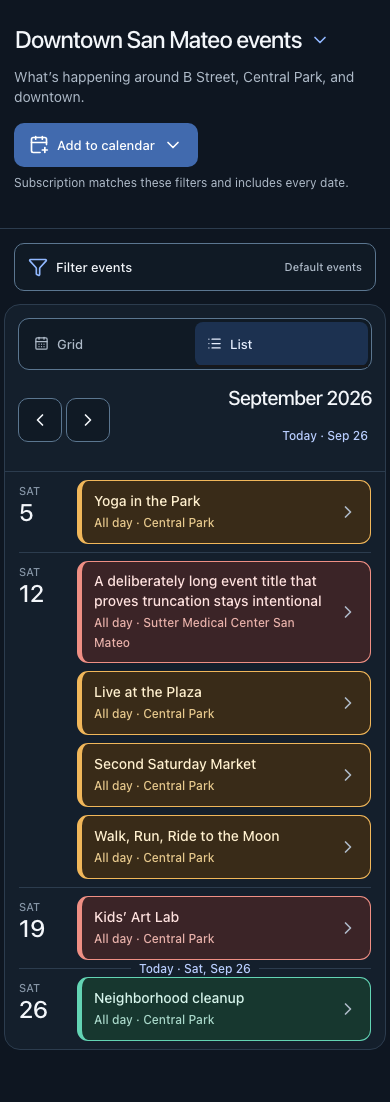
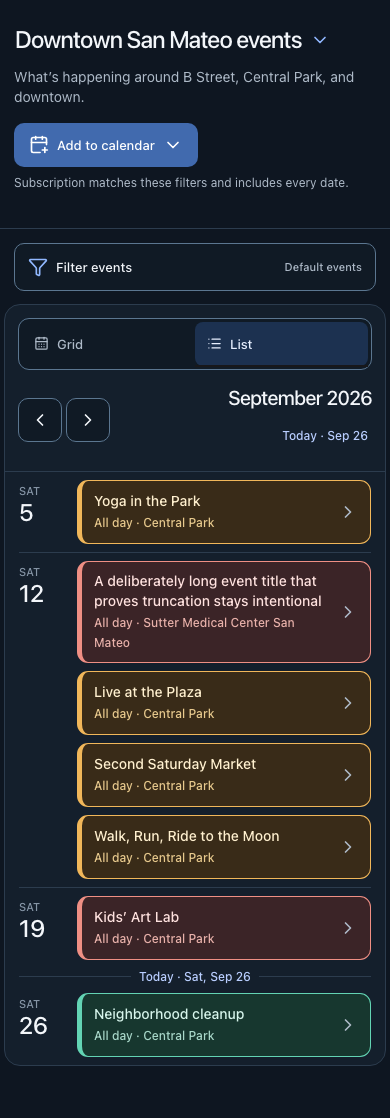
fix(frontend): give Today label readable clearance

diff --git a/frontend/e2e/today-divider.visual.spec.ts b/frontend/e2e/today-divider.visual.spec.ts
@@ -14,15 +14,10 @@ async function openFixture(page: Page, width: number, now: Date) {
 
 async function subscriptionUrl(page: Page) {
   await page.getByRole('button', { name: 'Add to calendar' }).click()
-  const menu = page.getByRole('menu')
-  const href = await page
+  return page
     .getByText('Apple Calendar')
     .locator('xpath=ancestor::a[1]')
     .getAttribute('href')
-  await menu.focus()
-  await menu.press('Escape')
-  await expect(menu).toBeHidden()
-  return href
 }
 
 async function contrastRatio(page: Page) {
@@ -88,7 +83,7 @@ async function expectBoundaryRhythm(page: Page, divider: Locator) {
     secondSameDay,
     boundaryBefore,
     boundaryAfter,
-    rule
+    label
   ] = await Promise.all([
     page.getByRole('tabpanel', { name: 'List' }).boundingBox(),
     ordinaryRule.boundingBox(),
@@ -97,18 +92,21 @@ async function expectBoundaryRhythm(page: Page, divider: Locator) {
     row12.getByRole('button').nth(1).boundingBox(),
     row19.getByRole('button').first().boundingBox(),
     row26.getByRole('button').first().boundingBox(),
-    divider.locator('[aria-hidden="true"]').first().boundingBox()
+    divider.locator('p').boundingBox()
   ])
   const normalLine = normalRule!.y + normalRule!.height / 2
-  const boundaryLine = rule!.y + rule!.height / 2
   const sameDayGap = secondSameDay!.y - (normalAfter!.y + normalAfter!.height)
   expect(sameDayGap).toBe(8)
+  const beforeText = label!.y - (boundaryBefore!.y + boundaryBefore!.height)
+  const afterText = boundaryAfter!.y - (label!.y + label!.height)
+  expect(beforeText).toBeGreaterThanOrEqual(7.5)
+  expect(afterText).toBeGreaterThanOrEqual(7.5)
   const gaps = [
     normalBefore!.y - list!.y,
     normalLine - (normalBefore!.y + normalBefore!.height),
     normalAfter!.y - normalLine,
-    boundaryLine - (boundaryBefore!.y + boundaryBefore!.height),
-    boundaryAfter!.y - boundaryLine,
+    beforeText,
+    afterText,
     list!.y + list!.height - (boundaryAfter!.y + boundaryAfter!.height)
   ]
   for (const gap of gaps)
@@ -181,12 +179,11 @@ for (const [instant, position] of [
     const ordinaryRule = page
       .locator('#calendar-list-day-2026-09-05')
       .locator('xpath=following-sibling::*[1]')
-    const [ordinaryRuleBox, dividerRuleBox] = await Promise.all([
+    const [ordinaryRuleBox, labelBox] = await Promise.all([
       ordinaryRule.boundingBox(),
-      divider.locator('[aria-hidden="true"]').first().boundingBox()
+      divider.locator('p').boundingBox()
     ])
     const ordinaryLine = ordinaryRuleBox!.y + ordinaryRuleBox!.height / 2
-    const dividerLine = dividerRuleBox!.y + dividerRuleBox!.height / 2
     expect(dividerBox!.y).toBeGreaterThanOrEqual(listBox!.y)
     expect(dividerBox!.y + dividerBox!.height).toBeLessThanOrEqual(
       listBox!.y + listBox!.height
@@ -208,8 +205,13 @@ for (const [instant, position] of [
           .boundingBox()
       ])
       expect(
-        Math.abs(firstCard!.y - dividerLine - (nextCard!.y - ordinaryLine))
+        Math.abs(
+          firstCard!.y -
+            (labelBox!.y + labelBox!.height) -
+            (nextCard!.y - ordinaryLine)
+        )
       ).toBeLessThanOrEqual(2)
+      expect(labelBox!.y - listBox!.y).toBeGreaterThanOrEqual(7.5)
     } else {
       expect(
         await divider.evaluate(element => element.nextElementSibling)
@@ -232,11 +234,14 @@ for (const [instant, position] of [
       ])
       expect(
         Math.abs(
-          dividerLine -
+          labelBox!.y -
             (lastCard!.y + lastCard!.height) -
             (ordinaryLine - (earlierCard!.y + earlierCard!.height))
         )
       ).toBeLessThanOrEqual(2)
+      expect(
+        listBox!.y + listBox!.height - (labelBox!.y + labelBox!.height)
+      ).toBeGreaterThanOrEqual(7.5)
     }
     expect(
       await page.evaluate(() => document.documentElement.scrollWidth)
@@ -253,9 +258,6 @@ for (const width of [1280, 390, 320]) {
     await page.setViewportSize({ width, height: 600 })
     await page.getByRole('button', { name: 'Next month' }).click()
     await expect(page.locator('#calendar-today-divider')).toHaveCount(0)
-    expect(await subscriptionUrl(page)).toBe(
-      'webcal://localhost:8787/dtsm-events.ics'
-    )
     const today = page.getByRole('button', { name: /Go to today,/ })
     if (width === 320) {
       await today.focus()

diff --git a/frontend/src/components/CalendarViews.tsx b/frontend/src/components/CalendarViews.tsx
@@ -24,7 +24,7 @@ import { EventTrigger } from './EventDetails'
 import { OverflowPopover } from './OverflowPopover'
 
 const LIST_RHYTHM_PX = 8
-const LIST_LABEL_BOUNDARY_HEIGHT_PX = LIST_RHYTHM_PX * 2 + 1
+const TODAY_LABEL_LINE_HEIGHT_PX = 17
 
 export function CalendarGrid(props: {
   month: string
@@ -282,9 +282,9 @@ function ListBoundary(props: {
       aria-label={`Today, ${fullDate(props.dateKey)}`}
       align="center"
       gap="8px"
-      h={`${LIST_LABEL_BOUNDARY_HEIGHT_PX}px`}
-      mt={props.placement === 'start' ? '0' : `-${LIST_RHYTHM_PX}px`}
-      mb={props.placement === 'end' ? '0' : `-${LIST_RHYTHM_PX}px`}
+      h={`${TODAY_LABEL_LINE_HEIGHT_PX}px`}
+      mt={props.placement === 'start' ? `${LIST_RHYTHM_PX}px` : '0'}
+      mb={props.placement === 'end' ? `${LIST_RHYTHM_PX}px` : '0'}
       position="relative"
       zIndex="1"
       scrollMarginTop="18px"
@@ -295,7 +295,7 @@ function ListBoundary(props: {
         color="calendar.link"
         fontSize="12px"
         fontWeight="500"
-        lineHeight={`${LIST_LABEL_BOUNDARY_HEIGHT_PX}px`}
+        lineHeight={`${TODAY_LABEL_LINE_HEIGHT_PX}px`}
         whiteSpace="nowrap"
       >
         Today · {shortWeekday(props.dateKey)}, {shortDate(props.dateKey)}

diff --git a/docs/design/calendar-explorer.md b/docs/design/calendar-explorer.md
@@ -143,9 +143,10 @@ or emptiness never broadens or erases persisted intent.
   One List boundary owns every separator. It renders either a plain rule or the
   Today-labelled rule; event rows draw no separator. One 8px List vertical rhythm
   governs the panel edges, row padding, gaps between same-day cards, and
-  distances to ordinary and Today rules. The Today label geometry derives from
-  that rhythm. An ordinary rule appears only between date groups, never after
-  the last one.
+  distances to ordinary rules. The Today label occupies its text height in the
+  layout, with 8px clearance from the adjacent cards on both sides. Measuring
+  only its rule would miss text crowding. An ordinary rule appears only between
+  date groups, never after the last one.
   Other months, loading, failure, no-event months, and intentionally empty
   filters have no divider. Past event cards keep their normal appearance.
 - The month toolbar shows `Today · <short month and day>` with the full date and
@@ -237,6 +238,7 @@ needed to prevent recurrence.
 | Menu indicators crossed option labels                        | Custom padding overwrote reserved anatomy                                                                                                    | Preserve compound geometry                                                                                                                    | Zero control/label overlap                                                                         |
 | Type at 320px shipped narrow with a giant All-row ring (#39) | Places was sampled at 320px while Type/Organizer were sampled only on desktop; `_focusWithin` styled the whole row for pointer-initial focus | Cover each distinct surface at every geometry-changing viewport; pointer and keyboard focus are separate states; narrow panels match triggers | Playwright screenshots plus trigger/panel, row/control/label, focus-style, and viewport assertions |
 | Today cue doubled rules and broke List rhythm (#43)          | A row and cue split one boundary; 12px outer, 16px row, 7px card, and 10px label values also split one rhythm                                | One boundary owner and one List rhythm; no trailing ordinary rule                                                                             | One rule; compare top, same-day, rule, and bottom gaps within 2px                                  |
+| Today text touched event cards (#43)                         | Measuring rule centers missed the 17px text box; compressing its flow slot erased the clearance                                              | Label occupies its text height with 8px clearance on both sides                                                                               | Browser measures text bounds against adjacent cards at every width and edge                        |
 
 ## Executable visual denominator
 
@@ -262,7 +264,7 @@ real Vite application and deterministic production-shaped fixtures. The Today
 cells also use a fixed LA clock to assert divider position, visible and
 accessible dates, focus and scroll behavior, target geometry, document width,
 computed contrast, one List rhythm from the first edge through same-day cards,
-ordinary and Today rules to the final edge, clean runtime logs,
+ordinary rules and the Today text box to the final edge, clean runtime logs,
 and unchanged canonical subscription URLs. A date rollover changes the cue and
 marker without changing the preview month or moving the page.
 Playwright snapshots catch composition. DOM rectangle and computed-style

diff --git a/docs/screenshots/today-divider/README.md b/docs/screenshots/today-divider/README.md
@@ -31,6 +31,6 @@ The executable browser contract in
 a today event at 1280, 390, and 320px, plus Grid at 320px, on Darwin and Linux.
 Its DOM and computed-style assertions check divider placement, visible date,
 text contrast, the single 8px rhythm from panel edges through same-day cards
-and date rules to the final edge, toolbar target height, document width, Today
+and ordinary rules plus clearance around the Today text, toolbar target height, document width, Today
 scroll and focus, Grid's marker through midnight, runtime errors, and the exact
 subscription URL. Each screenshot shows only its stated viewport and state.
